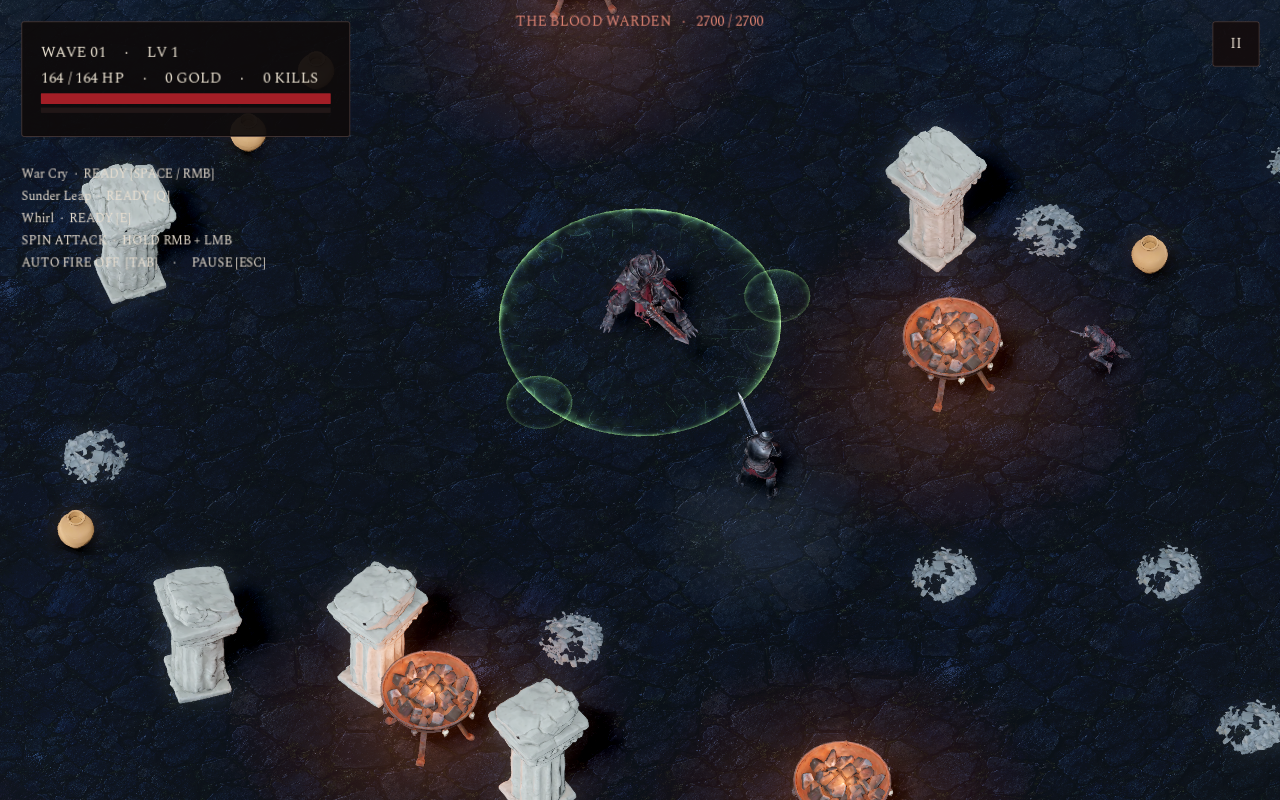
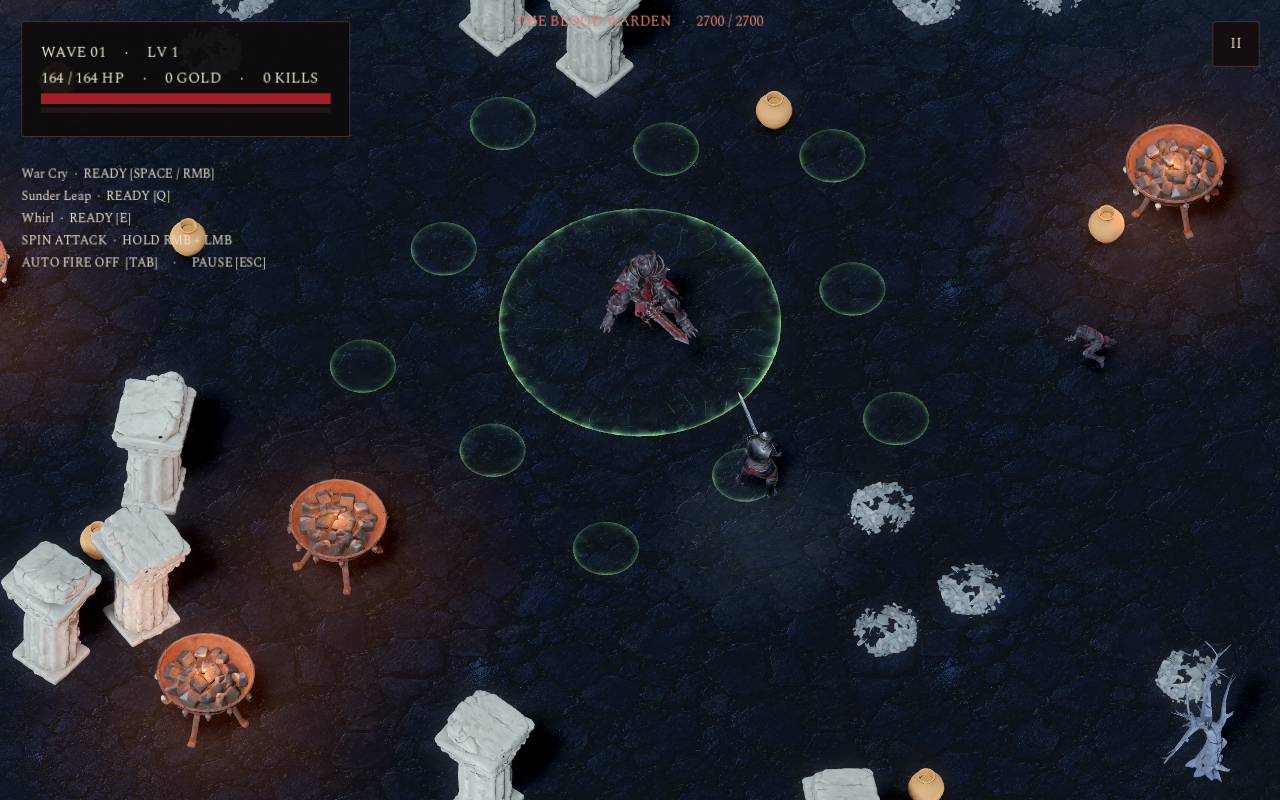
Increase boss punishment and add flanking pursuit with reactive arrivals

diff --git a/art/enemies/mixamo/boss/README.md b/art/enemies/mixamo/boss/README.md
@@ -21,12 +21,12 @@ for 2.5 seconds, an extra charge closes the gap without consuming that step.
 | Sweep | Great Sword High Spin Attack | 0.80 s; 270° sector, 3.8 m | 0.65 s | 1.2 |
 | Charge | Great Sword Slide Attack | 0.90 s; 8 × 2 m lane | 0.60 s after 0.60 s lunge | 1.35, once |
 | Hex Volley | Great Sword Casting | 1.00 s; three fixed aiming rays | 0.65 s | 0.7 per missile |
-| Summon | Roar | 1.50 s; green ring + two spawn portals | 0.80 s | Two grunts; no direct damage |
+| Summon | Roar | 1.50 s; green ring + ten spawn portals | 0.80 s | Ten grunts; no direct damage |
 
 `godot/scripts/boss.gd` owns the timings and contact fractions. Directions lock at
 the start of warnings; normal hits cannot interrupt the performance; death cancels
-pending damage and warnings. Summoning respects the 24-enemy cap and has no hidden
-periodic timer. Charge stops at obstacles and checks the swept movement segment.
+pending damage and warnings. Each summon adds ten grunts, including when earlier adds are still alive; there
+is no hidden periodic timer. Charge stops at obstacles and checks the swept movement segment.
 
 Validation:
 - `godot --headless --path godot --script res://tests/boss_pattern_test.gd`
@@ -37,3 +37,13 @@ Validation:
 The boss now has 2700 base HP. The HUD displays only its name and health.
 Ground tells use an additive procedural ember shader: fixed collision borders,
 flickering inner glow and faint fractures; impacts expand and fade with sparks.
+
+Base damage is 65 (quick strike 65, slam 130, sweep 78, charge 87.75,
+volley 45.5 per missile, before player armor). Summon portals alternate 4.6 m
+and 6 m from the boss to spread the ten arrivals around it.
+
+Ordinary enemies have stable direct/left/right pursuit roles, predict up to
+1.5 seconds of measured player travel, and collapse their flank offsets near
+melee contact. Two of every three ordinary arrivals prefer the escape direction;
+the existing wave quota and spawn interval remain authoritative. Alternate arrival
+bearings avoid crowding and keep at least 7.5 m away even at arena corners.
